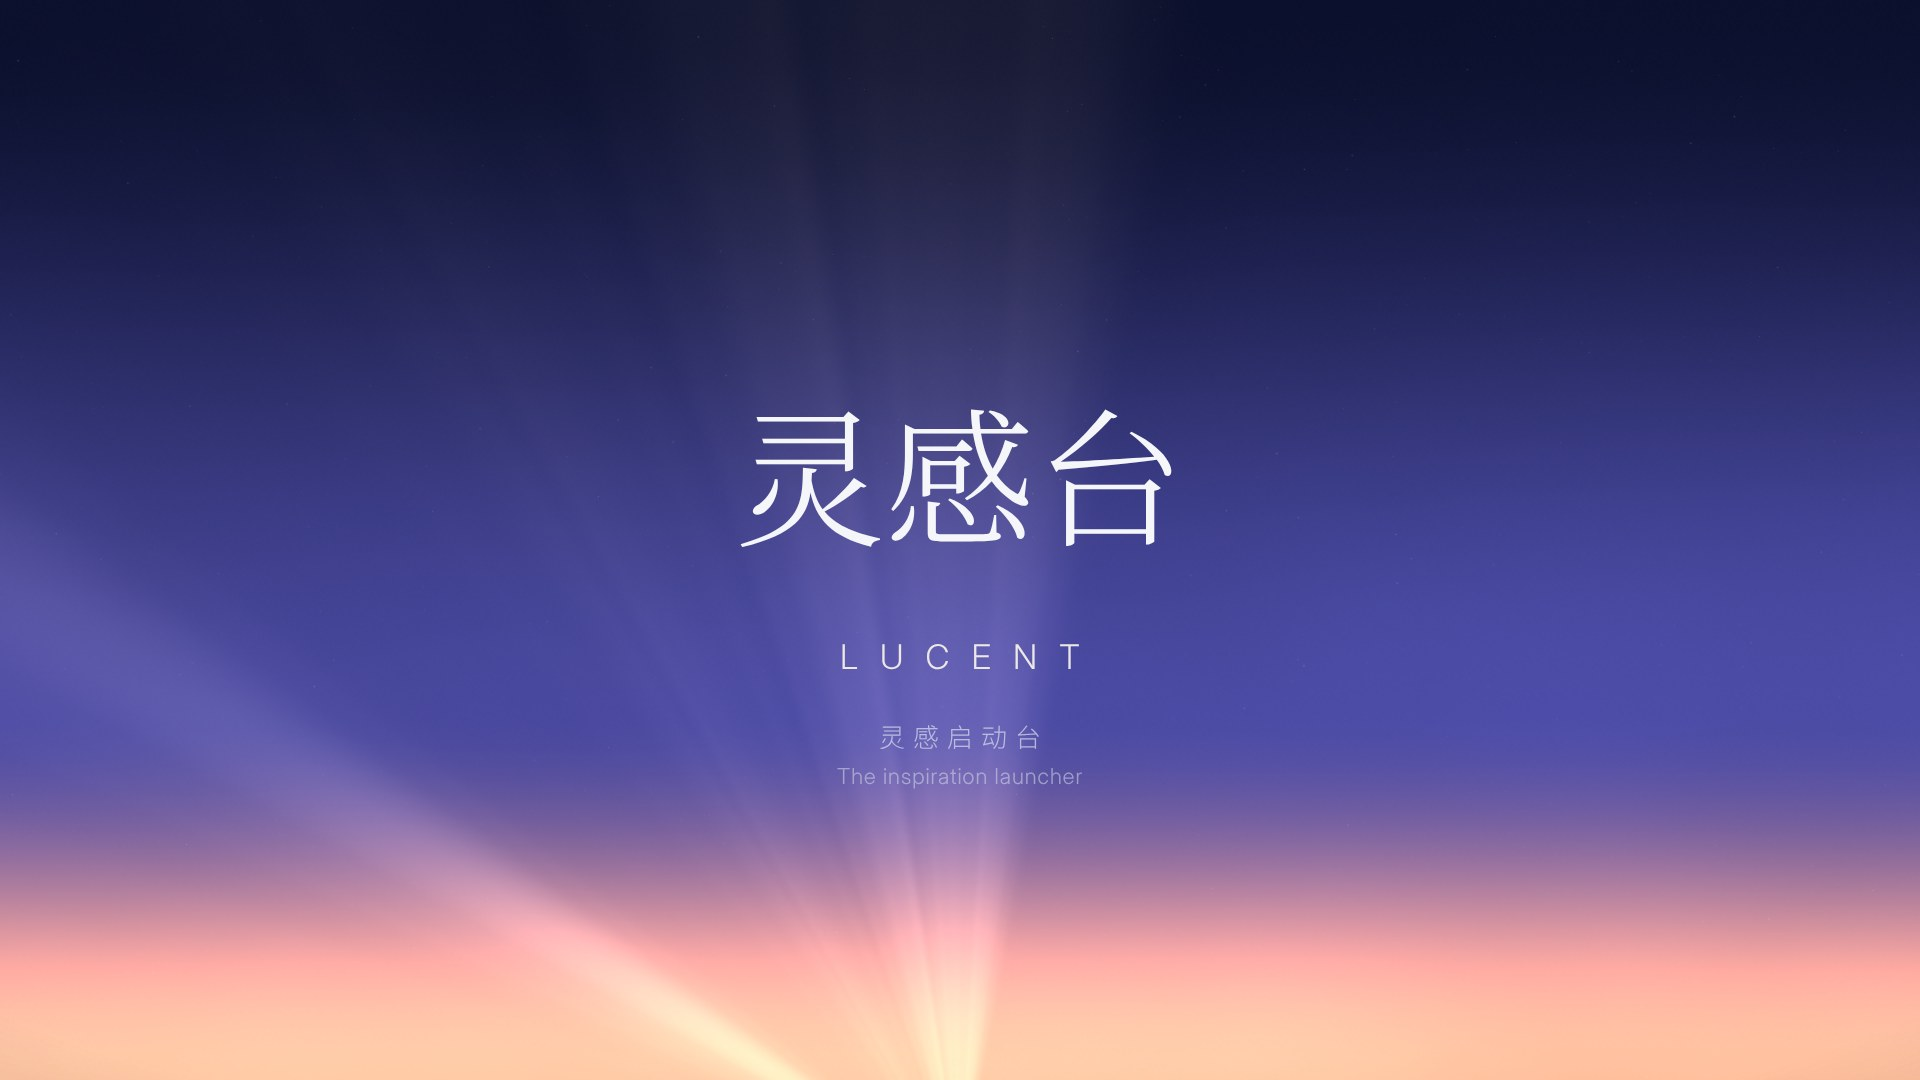
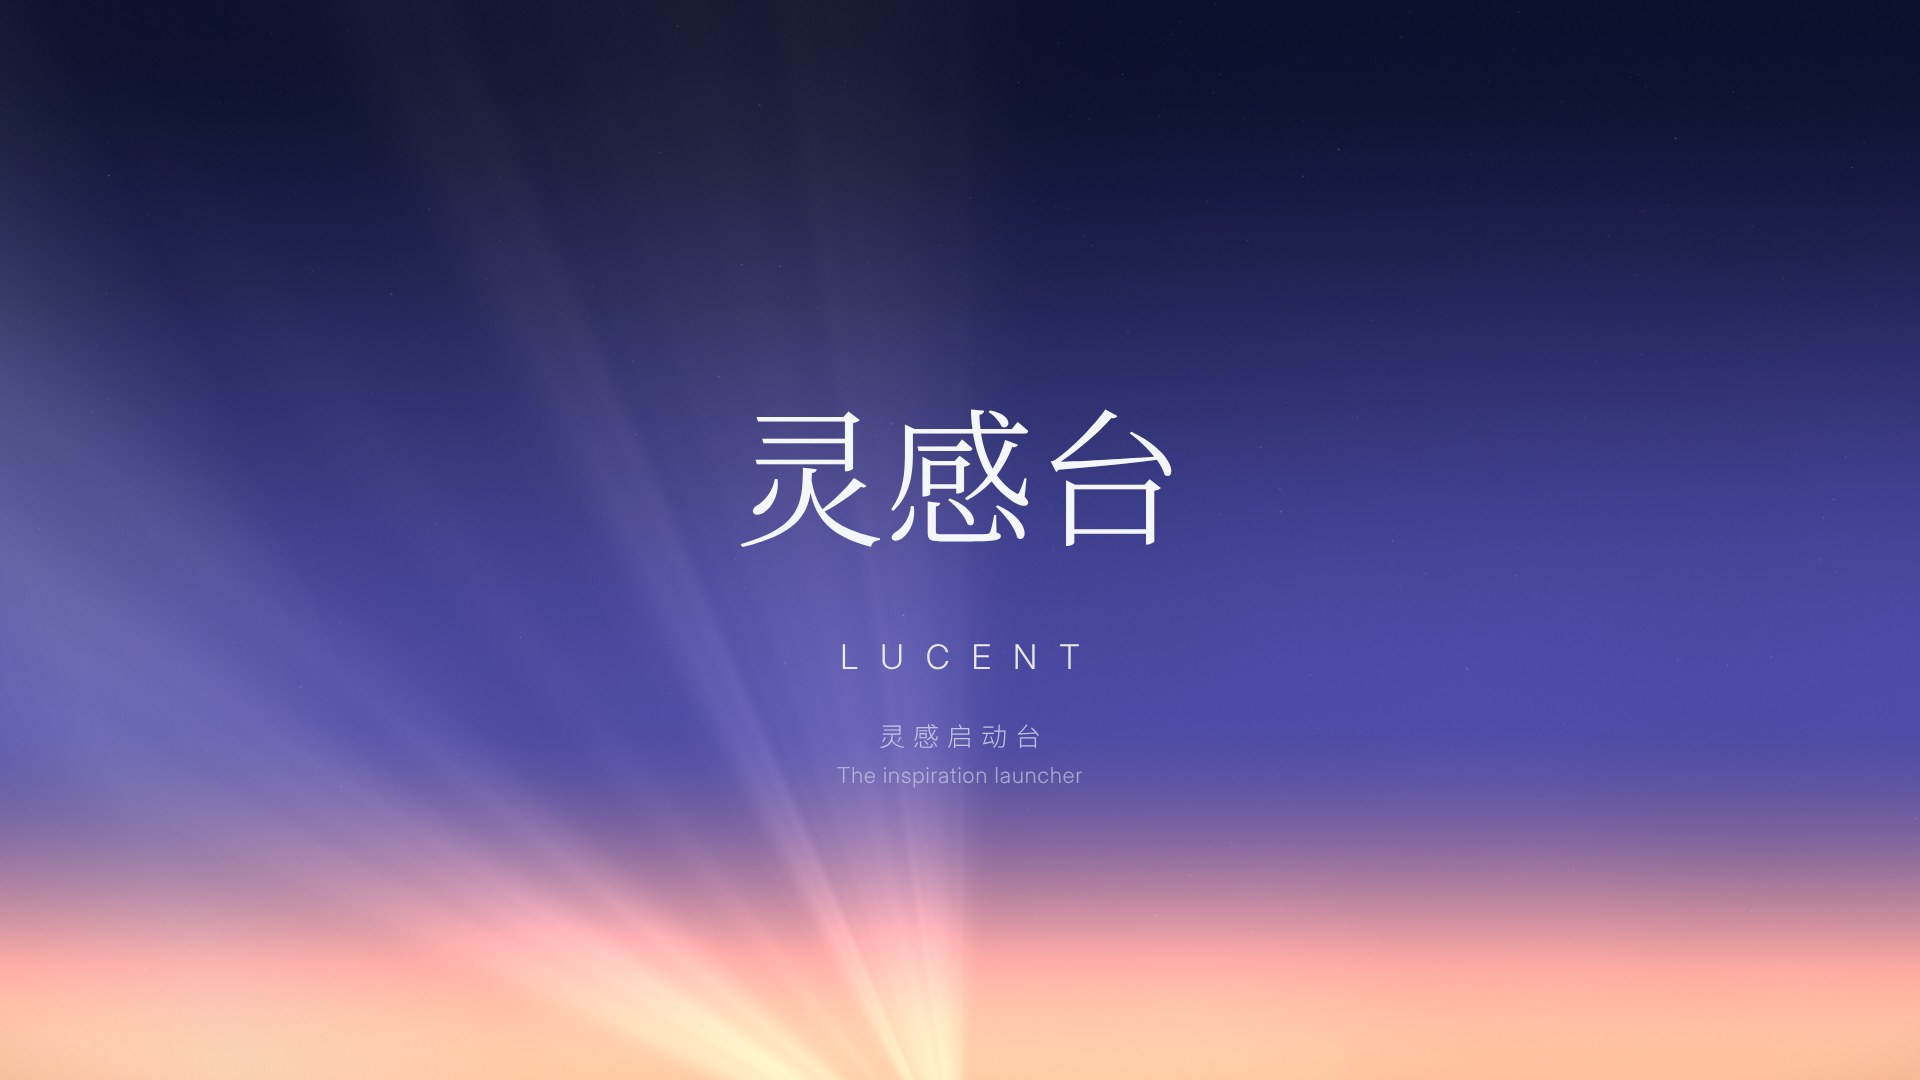
Film: put the name at dawn on the poster; clear the gold lines sooner
The poster follows the lockup to its new moment (57.6 s). On the way
back from the golden world, its lines and silk fade with the square of
the gold, so they are gone before the search field returns.

diff --git a/demo/film/film.js b/demo/film/film.js
@@ -7,10 +7,11 @@
  * on a grid of 120 beats a minute.
  *
  * Back to front: the world (WebGL, gl.js: night, pearl, aurora, dawn and gold, with rays, stage lights,
- * a slit of light and four pillars), the place (one 1560 × 1040 screen in DOM, seen through a camera),
- * light (Canvas 2D), type (DOM and SVG), glints (WebGL points).
+ * a circle of light, a slit of light and four pillars), the place (one 1560 × 1040 screen in DOM, seen
+ * through a camera), light (Canvas 2D: beams, lasers, the gold linework and its silk), type (DOM and
+ * SVG), glints (WebGL points).
  *
- *   ?capture   no controls; window.__film = { duration, ready, seek(t) } for the renderer
+ *   ?capture   no controls; window.__film = { duration, marks, ready, seek(t) } for the renderer
  *   ?t=42      start at 42 s
  */
 (function () {
@@ -82,7 +83,7 @@
   function px(n) { return n.toFixed(2) + 'px'; }
   function f3(n) { return n.toFixed(3); }
   function blurOf(k) { return k > 0.002 ? 'blur(' + k.toFixed(2) + 'px)' : 'none'; }
-  var DEG = Math.PI / 180, TAU = Math.PI * 2, NS = 'http://www.w3.org/2000/svg';
+  var DEG = Math.PI / 180, TAU = Math.PI * 2;
 
   // ---------- elements ----------
   var stage = $('stage'), camera = $('camera'), device = $('device'), bezel = $('bezel'), edgeR = $('edgeR'), screen = $('screen');
@@ -832,7 +833,7 @@
   }
   function goldWorld(t, s) {
     if (s.gold <= 0.001) return;
-    var c = lctx, a0 = s.gold, half = lerp(0.0018, 1.05, s.slit[0]) * 1080;
+    var c = lctx, a0 = s.gold * s.gold, half = lerp(0.0018, 1.05, s.slit[0]) * 1080;
     var grow = E.out(seg(t, M.slit + 0.1, M.open + 1.7));
     c.save();
     c.beginPath(); c.rect(960 - half, 0, 2 * half, 1080); c.clip();
